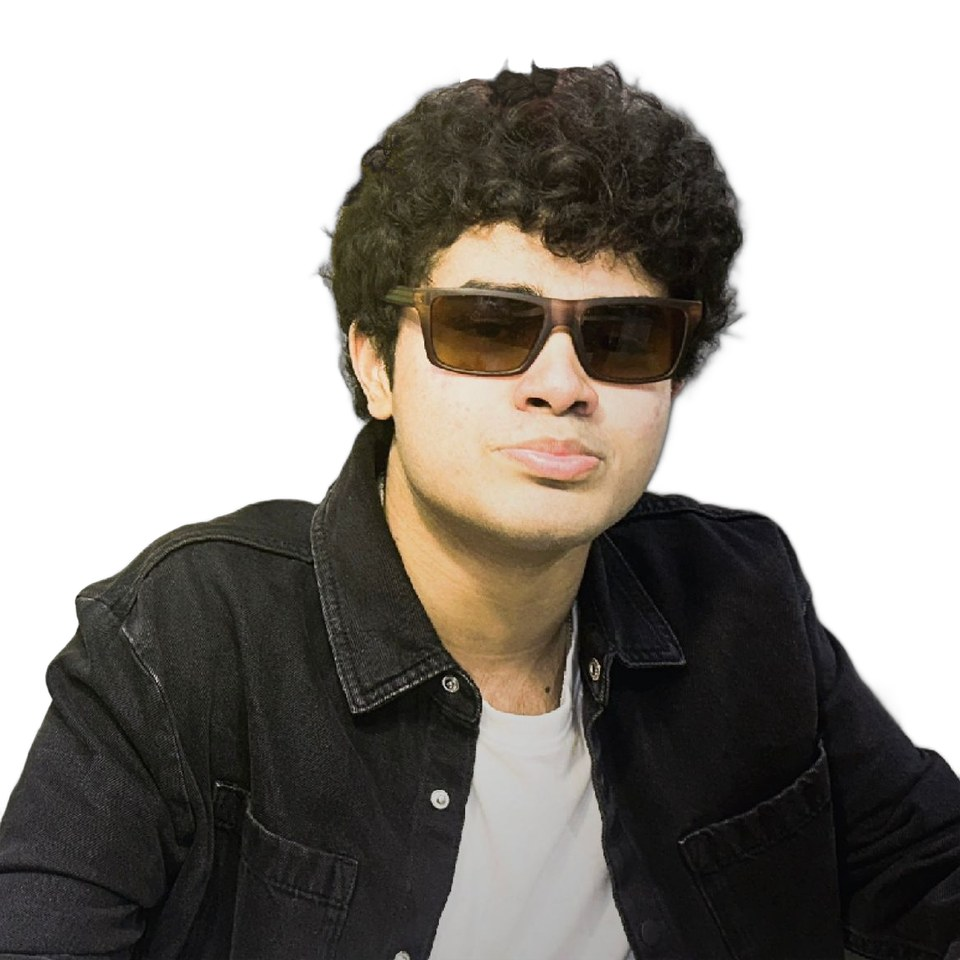
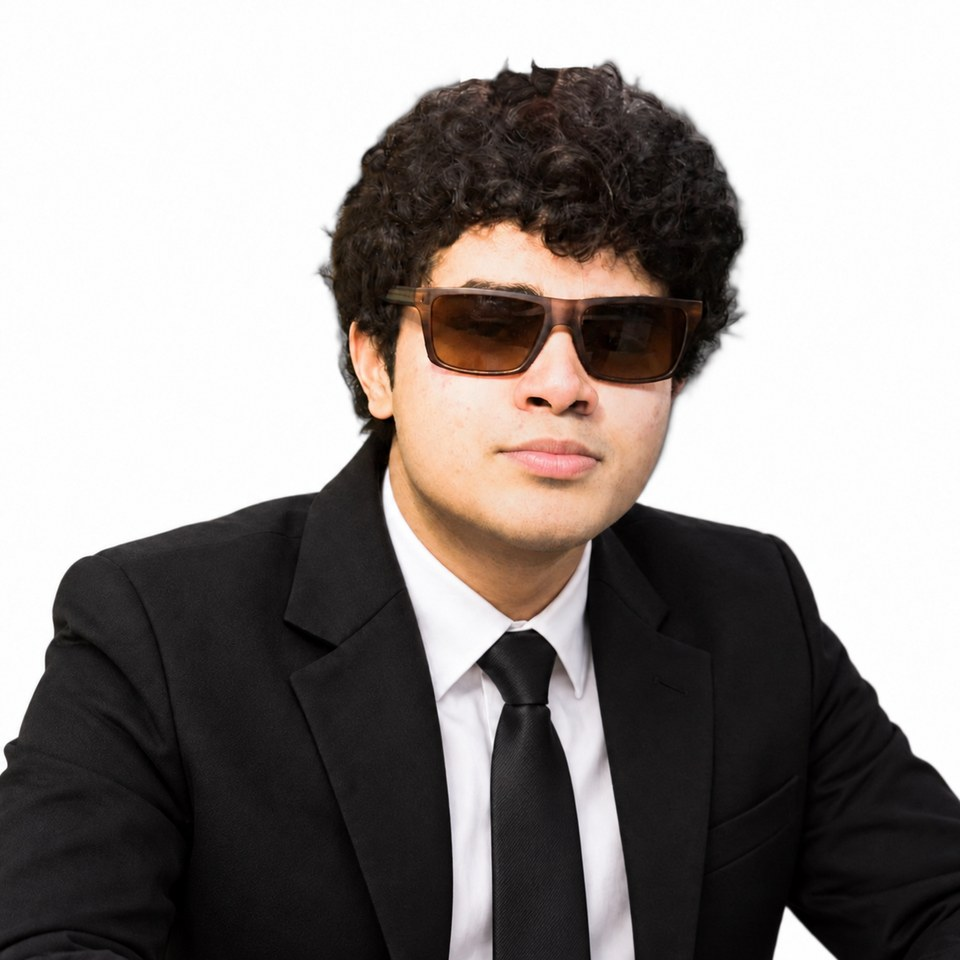
Use suit photo as profile picture
Claude-Session: https://claude.ai/code/session_01ENHzGwiv9jEyXJsUsY5KQi

diff --git a/index.html b/index.html
@@ -234,7 +234,7 @@ footer .wrap{display:flex;justify-content:space-between;align-items:center;gap:1
         </div>
       </div>
       <figure class="portrait">
-        <img src="anmol.jpg" alt="Portrait of Anmol Srivastava in sunglasses and a black denim jacket" width="960" height="960">
+        <img src="anmol.jpg" alt="Portrait of Anmol Srivastava in sunglasses, a black suit and tie" width="960" height="960">
         <figcaption><span class="dot" aria-hidden="true"></span>Shipping in 2026</figcaption>
       </figure>
     </div>
